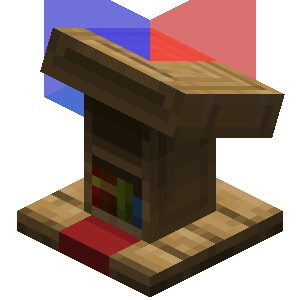
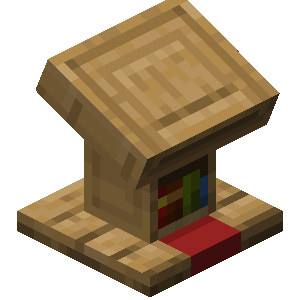
Negate all rotations to fix a bunch of weird behaviour

diff --git a/src/hexdoc/graphics/render.py b/src/hexdoc/graphics/render.py
@@ -116,8 +116,7 @@ class BlockRendererConfig(WindowConfig):
             dtype="f4",
         )
 
-        # self.camera = direction_camera(pos="east")
-        self.camera = orbit_camera(yaw=45, pitch=30)
+        self.camera = direction_camera(pos="south")
 
         # block faces
 
@@ -191,9 +190,10 @@ class BlockRendererConfig(WindowConfig):
         )
 
         model_transform *= (
-            Matrix44.from_translation(gui.translation)
-            # * get_rotation_matrix(gui.eulers)
-            * Matrix44.from_scale(gui.scale)
+            Matrix44.from_scale(gui.scale)
+            * get_rotation_matrix(gui.eulers)
+            * Matrix44.from_translation(gui.translation)
+            * Matrix44.from_translation((-8, -8, -8))
         )
 
         # render elements
@@ -203,15 +203,13 @@ class BlockRendererConfig(WindowConfig):
 
             # TODO: rescale??
             if rotation := element.rotation:
-                center = np.add(element.to, element.from_) / 2
                 origin = np.array(rotation.origin)
-                element_transform *= (
-                    Matrix44.from_translation(center - origin)
-                    * get_rotation_matrix(rotation.eulers)
-                    * Matrix44.from_translation(origin - center)
-                )
 
-            element_transform *= Matrix44.from_translation((-8, -8, -8))
+                element_transform *= (
+                    Matrix44.from_translation(origin)
+                    * get_rotation_matrix(rotation.eulers)
+                    * Matrix44.from_translation(-origin)
+                )
 
             self.uniform("m_model").write(element_transform)
 
@@ -448,7 +446,7 @@ def read_shader(path: str, type: Literal["fragment", "vertex", "geometry"]):
 
 def get_rotation_matrix(eulers: Vec3):
     return (
-        Matrix44.from_x_rotation(eulers[0])
-        * Matrix44.from_y_rotation(eulers[1])
-        * Matrix44.from_z_rotation(eulers[2])
+        Matrix44.from_x_rotation(-eulers[0])
+        * Matrix44.from_y_rotation(-eulers[1])
+        * Matrix44.from_z_rotation(-eulers[2])
     )

diff --git a/test.py b/test.py
@@ -7,8 +7,8 @@ from hexdoc.minecraft.models import load_model
 from hexdoc.minecraft.models.item import ItemModel
 
 # MODEL_ID = "minecraft:block/oak_log"
-# MODEL_ID = "minecraft:block/tnt"
 MODEL_ID = "minecraft:block/lectern"
+# MODEL_ID = "minecraft:block/oak_stairs"
 # MODEL_ID = "minecraft:block/dropper"
 
 
@@ -24,7 +24,7 @@ def main():
         if isinstance(model, ItemModel):
             raise ValueError(f"Invalid block id: {MODEL_ID}")
 
-        with BlockRenderer(loader, debug=True) as renderer:
+        with BlockRenderer(loader, debug=False) as renderer:
             renderer.render_block_model(model)
 
 
